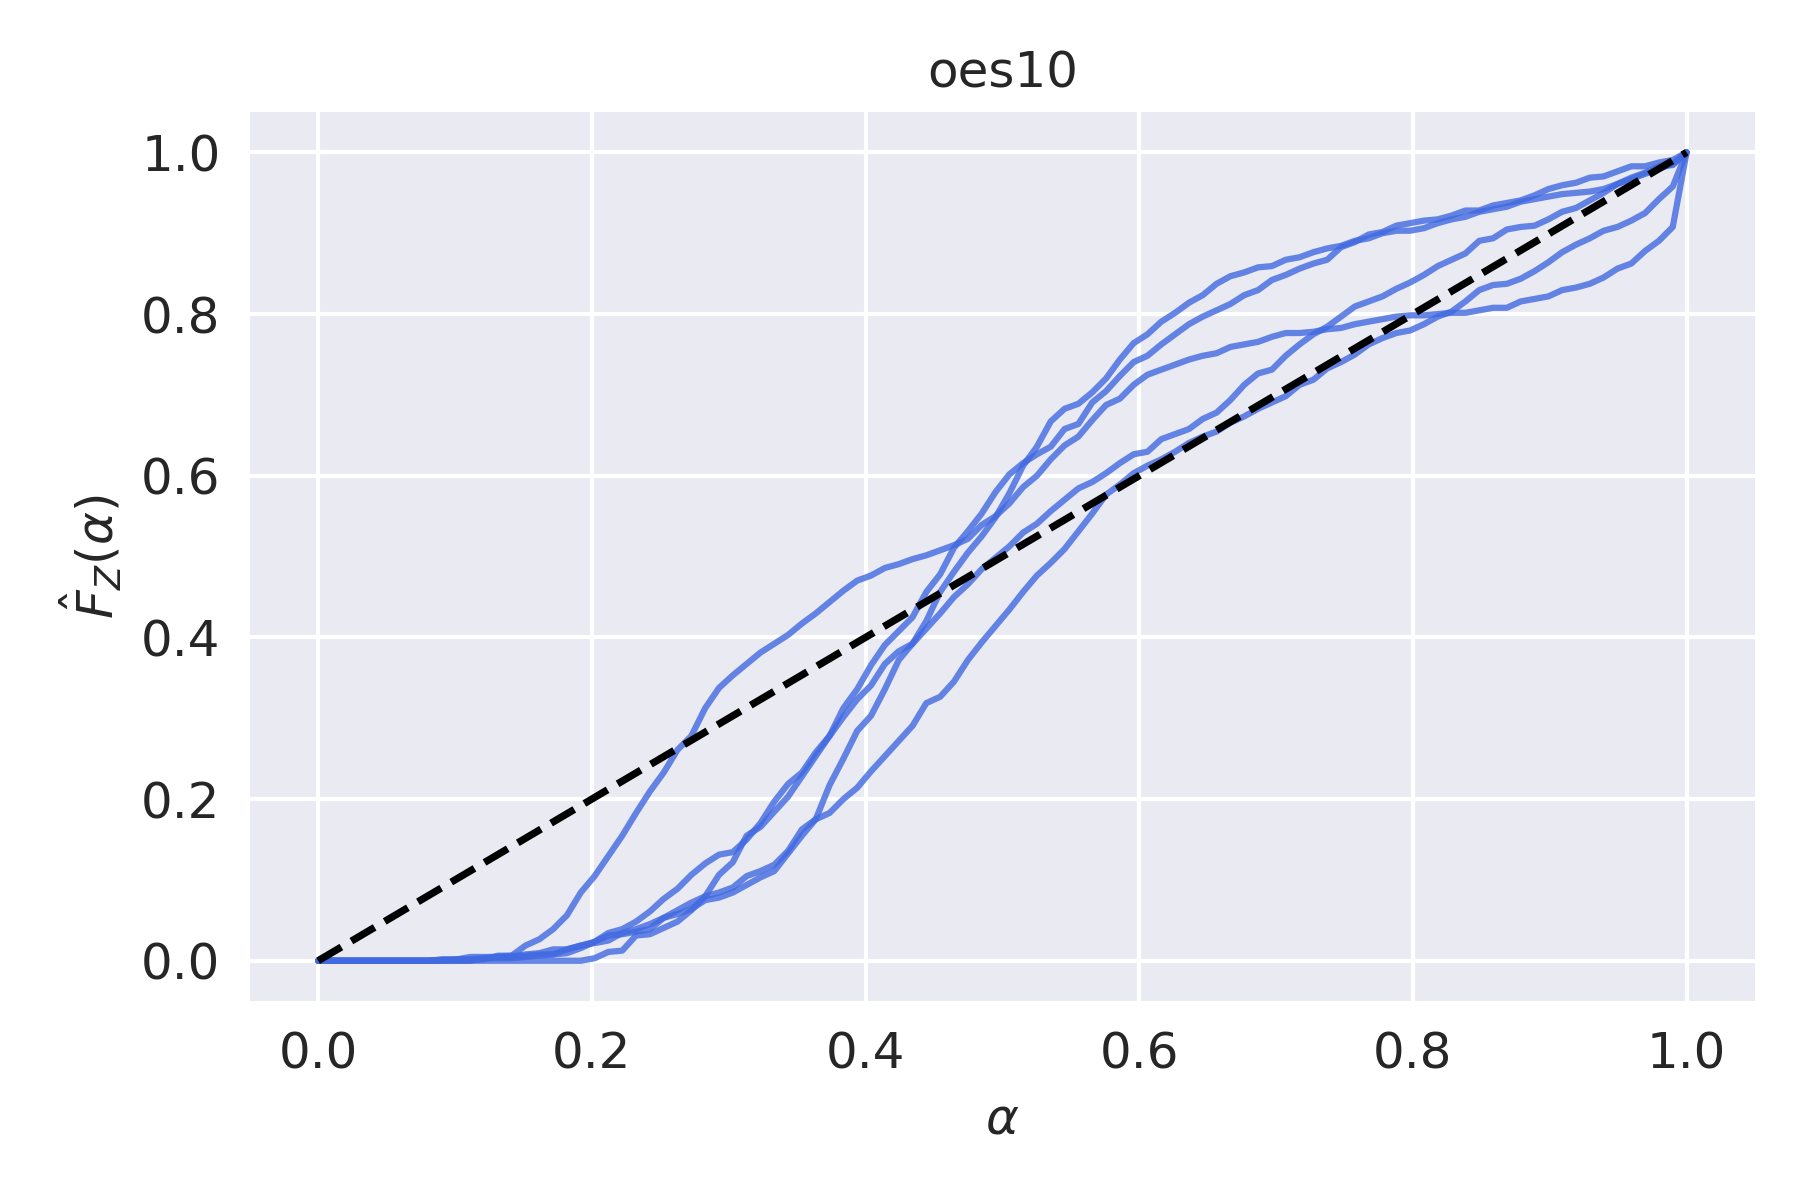
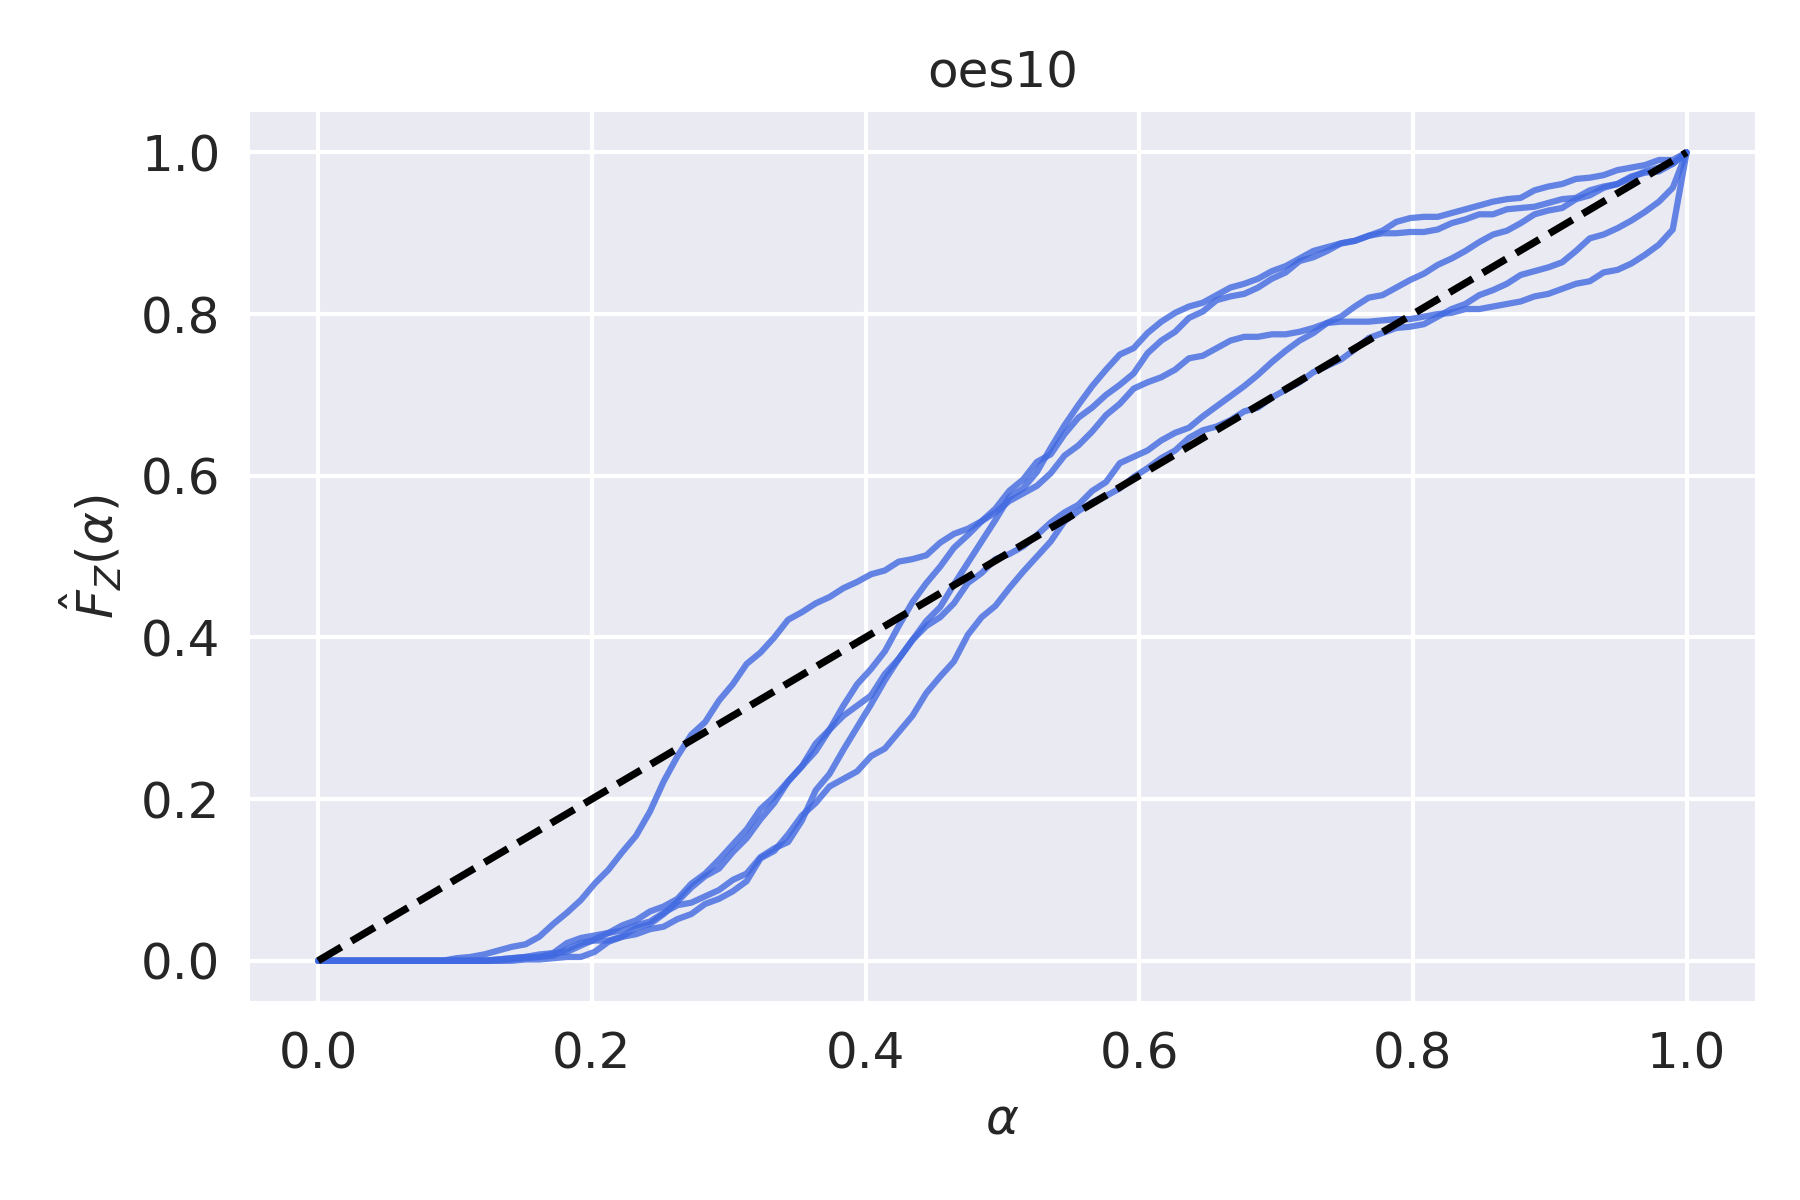
adding new plots

diff --git a/Multicalibration/Projected_PIT_calibration/calculating-pce.py b/Multicalibration/Projected_PIT_calibration/calculating-pce.py
@@ -43,10 +43,10 @@ dataset_names = [
                 #  ['del_barrio', 'calcofi'], ['del_barrio', 'ansur2'], ['wang', 'taxi'], 
                 #  ['wang', 'energy'],
                  ]
-prerank = 'marginal'
+prerank = 'pca'
 # pce_across_datasets = {}
 data_group, data_name = 'mulan', 'oes10'
-l = 0.0097
+l = 0.0033
 # for dataset in dataset_names:
 #     data_group, data_name = dataset
 pce_over_seeds, cdf_over_seeds = [], []
@@ -83,6 +83,7 @@ for seed in seeds:
     if prerank == 'pca':
         weights_total = torch.stack(weights).mean(dim=0)
         pce_total = torch.sum(pce_total * weights_total)
+        cdfs_total = cdfs_total.mean(dim=0)
     elif prerank =='marginal':
         pce_total = pce_total.mean(dim=0)
         cdfs_total = cdfs_total.mean(dim=0)
@@ -90,10 +91,8 @@ for seed in seeds:
     pce_over_seeds.append(pce_total.cpu().numpy())
     cdf_over_seeds.append(cdfs_total.cpu().numpy())
 pce_over_seeds = np.stack(pce_over_seeds)
-cdf_over_seed = np.stack(cdf_over_seeds)
+cdf_over_seeds = np.stack(cdf_over_seeds)
 
-print(pce_over_seeds)
-print(f"shape of cdf_over_seeds: {cdf_over_seeds.shape}")
 # To do:
 # 1. Plot the cdfs
 # 2. Print the mean of the pces and standard errors
@@ -102,7 +101,6 @@ print(f"Mean PCE over seeds: {pce_over_seeds.mean()}")
 print(f"Standard error of PCE over seeds: {pce_over_seeds.std() / np.sqrt(len(seeds))}")
 
 alphas = np.linspace(0, 1, 100)
-cdfs_total = cdfs_total.cpu().numpy()
 
 # colors = [
 #     'royalblue',
@@ -116,14 +114,14 @@ cdfs_total = cdfs_total.cpu().numpy()
 # ]
 plt.figure(figsize=(6, 4))
 for s in range(len(seeds)):
-    plt.plot(alphas, cdfs_total[s], color = 'darkorange', 
+    plt.plot(alphas, cdf_over_seeds[s], color = 'royalblue', 
              lw = 1.5, alpha = 0.8)
-plt.plot(alphas, alphas, linestyle='--', color='royalblue')
+plt.plot(alphas, alphas, linestyle='--', color='black')
 plt.xlabel(r"$\alpha$")
 plt.ylabel(r"$\hat{F}_Z(\alpha)$")
 # plt.legend(loc='upper left')
-# plt.title(f"{prerank} pre-rank, PCE = {pce_total.mean():.4f}")
+# plt.title(f"{data_name}")
 plt.grid(True)
 plt.tight_layout()
-plt.savefig(f"figures/after-reg/rel_plot_{prerank}_{data_name}_mixnll.png", dpi=300)
+plt.savefig(f"figures/after-reg/rel_plot_{prerank}_{data_name}.png", dpi=300)
 plt.show()

diff --git a/Multicalibration/Projected_PIT_calibration/moc/metrics/distribution_metrics.py b/Multicalibration/Projected_PIT_calibration/moc/metrics/distribution_metrics.py
@@ -113,22 +113,6 @@ def calculate_PIT(dist, y, n_samples, setup, prerank, tau = 100):
         raise ValueError(f"Unknown prerank function: {prerank}")
     return torch.stack(pits), explained_var
 
-# def calculate_PIT_density(dist, y, n_samples=100):
-#     batch_size, dim = y.shape
-#     samples = dist.sample((y.shape[0]*n_samples,)).reshape(y.shape[0], n_samples, -1)
-
-#     samples_flat = samples.reshape(-1, dim)  # (batch_size * n_samples, dim)
-#     log_probs = dist.log_prob(samples_flat)  # (batch_size * n_samples,)
-#     log_probs = log_probs.view(batch_size, n_samples)  # (batch_size, n_samples)
-
-#     log_probs_y = dist.log_prob(y)  # (batch_size,)
-
-#     pits = (log_probs <= log_probs_y.unsqueeze(1)).float().mean(dim=1, keepdim=True)  # (batch_size, 1)
-
-#     pits = pits.unsqueeze(0)  # (1, batch_size, 1)
-
-#     return pits
-
 def pce(dist, y, n_samples = 100, prerank = 'pca', setup = 'real', mode = 'train'):
     alphas = torch.linspace(0, 1, 100, device=y.device)
     pit_values, _ = calculate_PIT(dist, y, n_samples = n_samples, setup = setup, prerank = prerank) #shape (4,256,1) or (1, 256,1)

diff --git a/Multicalibration/Projected_PIT_calibration/tuning.py b/Multicalibration/Projected_PIT_calibration/tuning.py
@@ -91,9 +91,9 @@ dataset_names = [
                 #  ['del_barrio', 'calcofi'], ['del_barrio', 'ansur2'], ['wang', 'taxi'], 
                 #  ['wang', 'energy'],
                  ]
-data_group, data_name = ['mulan', 'sf1']
+data_group, data_name = ['mulan', 'oes10']
 seed = 42
-prerank = 'pca'
+prerank = 'dependency'
 
 wandb_run = wandb.init(
     project="multicalibration-hparam-tuning",
@@ -124,5 +124,4 @@ best_trial = min(admissible_trials, key=lambda t: t.value)
 print("Best lambda_reg (under constraint):", best_trial.params["lambda_reg"])
 print("Best PCE (under constraint):", best_trial.value)
 print("Corresponding NLL:", best_trial.user_attrs["nll"])
-# print("Corresponding Energy:", best_trial.user_attrs["energy"])
 
